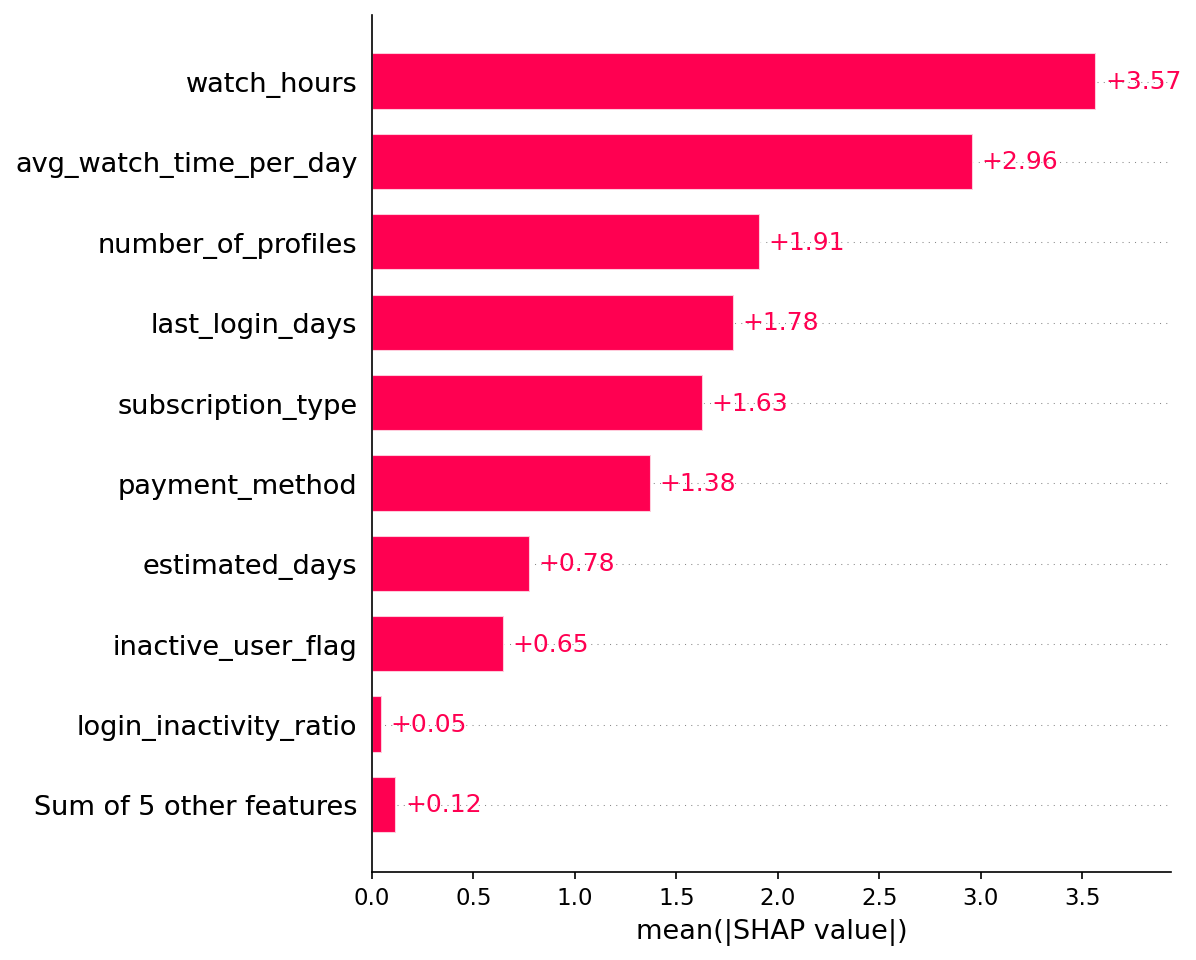
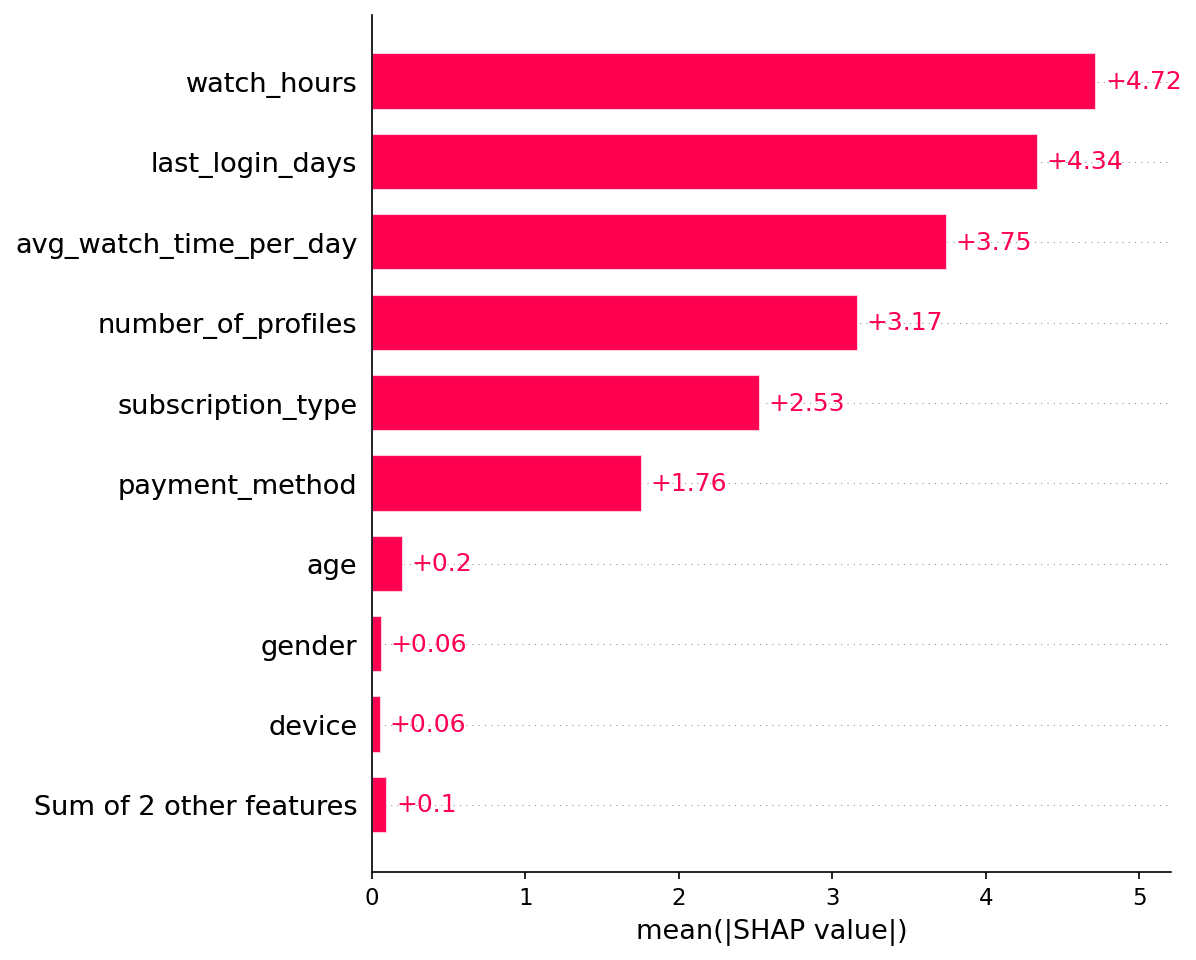
Streamlit 입력 검증 및 환경 호환성 개선
- app.py: favorite_genre 옵션을 실제 데이터와 일치하도록 교정 (Thriller 제거, Horror 추가)
- app.py: avg_watch_time_per_day max_value=24 추가, watch_hours/last_login_days에도 상한 추가
- requirements.txt: 누락 패키지 추가 (catboost, lightgbm, scipy)
- shap_*.png: 최종 CatBoost 모델 기준으로 재생성

diff --git a/app/app.py b/app/app.py
@@ -86,18 +86,28 @@ with tab1:
 
     with col1:
         gender = st.selectbox("Gender (성별)", ["Male", "Female", "Other"])
-        watch_hours = st.number_input("Watch Hours (총 시청시간)", min_value=0.0, value=10.0, step=1.0)
+        watch_hours = st.number_input(
+            "Watch Hours (총 시청시간)",
+            min_value=0.0, max_value=120.0, value=10.0, step=1.0
+        )
         region = st.selectbox("Region (지역)", ["Asia", "Europe", "North America", "South America", "Africa", "Oceania"])
 
     with col2:
         subscription_type = st.selectbox("Subscription Type (구독유형)", ["Basic", "Standard", "Premium"])
-        avg_watch_time_per_day = st.number_input("Avg Watch Time Per Day (일 평균 시청시간)", min_value=0.0, value=1.0, step=0.1)
+        avg_watch_time_per_day = st.number_input(
+            "Avg Watch Time Per Day (일 평균 시청시간)",
+            min_value=0.0, max_value=24.0, value=1.0, step=0.1,
+            help="하루 24시간 초과 입력 불가"
+        )
         device = st.selectbox("Device (기기)", ["Mobile", "TV", "Tablet", "Laptop", "Desktop"])
 
     with col3:
         payment_method = st.selectbox("Payment Method (결제수단)", ["Credit Card", "Debit Card", "Crypto", "Gift Card", "PayPal"])
-        last_login_days = st.number_input("Last Login Days (마지막 로그인 경과일)", min_value=0, value=20, step=1)
-        favorite_genre = st.selectbox("Favorite Genre (선호 장르)", ["Drama", "Action", "Comedy", "Romance", "Sci-Fi", "Documentary", "Thriller"])
+        last_login_days = st.number_input(
+            "Last Login Days (마지막 로그인 경과일)",
+            min_value=0, max_value=365, value=20, step=1
+        )
+        favorite_genre = st.selectbox("Favorite Genre (선호 장르)", ["Action", "Comedy", "Documentary", "Drama", "Horror", "Romance", "Sci-Fi"])
 
     if st.button("Predict Churn (이탈 예측)"):
         data = {
